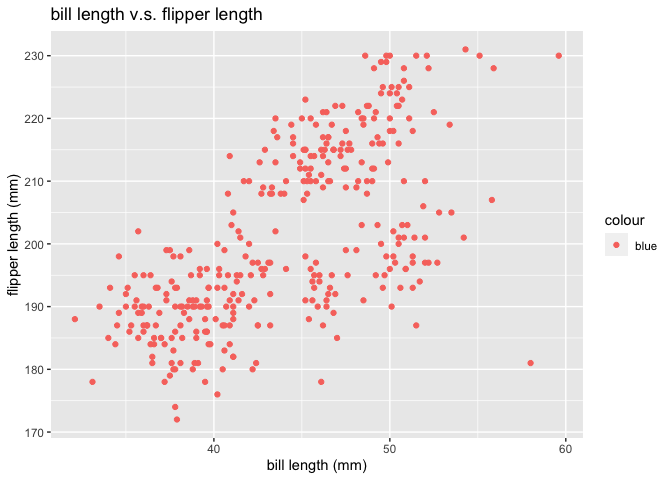
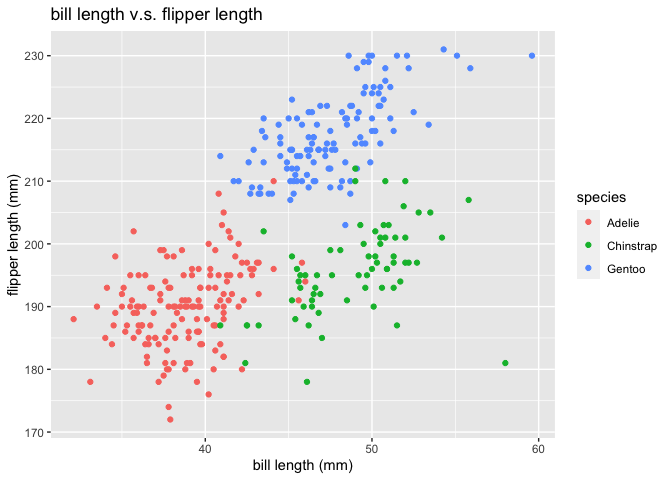
update of code

diff --git a/p8105_hw1_fy2297.md b/p8105_hw1_fy2297.md
@@ -43,7 +43,8 @@ x_axis <- penguins_new$bill_length_mm
 y_axis <- penguins_new$flipper_length_mm
 plot = tibble(x = x_axis, y = y_axis)
 # make a plot using ggplot
-ggplot(plot,aes(x=x, y=y, color = "blue"))+geom_point()+labs(title = "bill length v.s. flipper length", x = "bill length (mm)",y = "flipper length (mm)")
+species = penguins_new$species
+ggplot(plot,aes(x=x, y=y, color = species))+geom_point()+labs(title = "bill length v.s. flipper length", x = "bill length (mm)",y = "flipper length (mm)")
 ```
 
 ![](p8105_hw1_fy2297_files/figure-gfm/unnamed-chunk-2-1.png)<!-- -->
@@ -61,21 +62,9 @@ ggsave("bill length v.s. flipper length", plot = last_plot(), device = "pdf")
 set.seed(1234)
 # create four different vectors
 normal_vector <- rnorm(10)
-logical_vector <- vector("logical", 10)
+logical_vector <- normal_vector>0
 character_vector <- vector("character", 10)
-    as.numeric(character_vector)
-```
-
-    ##  [1] NA NA NA NA NA NA NA NA NA NA
-
-``` r
 factor_vector <- factor(c("small","medium","large","small","medium","large","small","medium","large","small"))
-    as.numeric(factor_vector)
-```
-
-    ##  [1] 3 2 1 3 2 1 3 2 1 3
-
-``` r
 # make a data frame using four vectors
 df = tibble (normal_vector, logical_vector, character_vector, factor_vector)
 # pull the variables out of the frame
@@ -83,7 +72,7 @@ data_norm <- pull(df, var = normal_vector)
 data_logical <- pull(df, var = logical_vector)
 data_character <- pull(df, var = character_vector)
 data_factor <- pull(df, var = factor_vector)
-# take the means of each variable
+# take the means of each variable (w/o as.numeric)
 mean_norm <- mean(data_norm)
 mean_logical <- mean(data_logical)
 mean_character <- mean(data_character)
@@ -96,3 +85,19 @@ mean_factor <- mean(data_factor)
 ```
 
     ## Warning in mean.default(data_factor): 参数不是数值也不是逻辑值：回覆NA
+
+when calculating the means of each vector, only normal and logical
+vector works, but character and factor vectors don’t.
+
+``` r
+data_logical_num = as.numeric(data_logical)
+data_character_num = as.numeric(data_character)
+data_factor_num = as.numeric(data_factor)
+mean_logical_num = mean(data_logical_num)
+mean_character_num = mean(data_character_num)
+mean_factor_num = mean(data_factor_num)
+```
+
+after converting them to “double” type vector, means can be calculated.
+It explained why it didn’t work before b/c R could only take means of
+“double” and “integer”.
